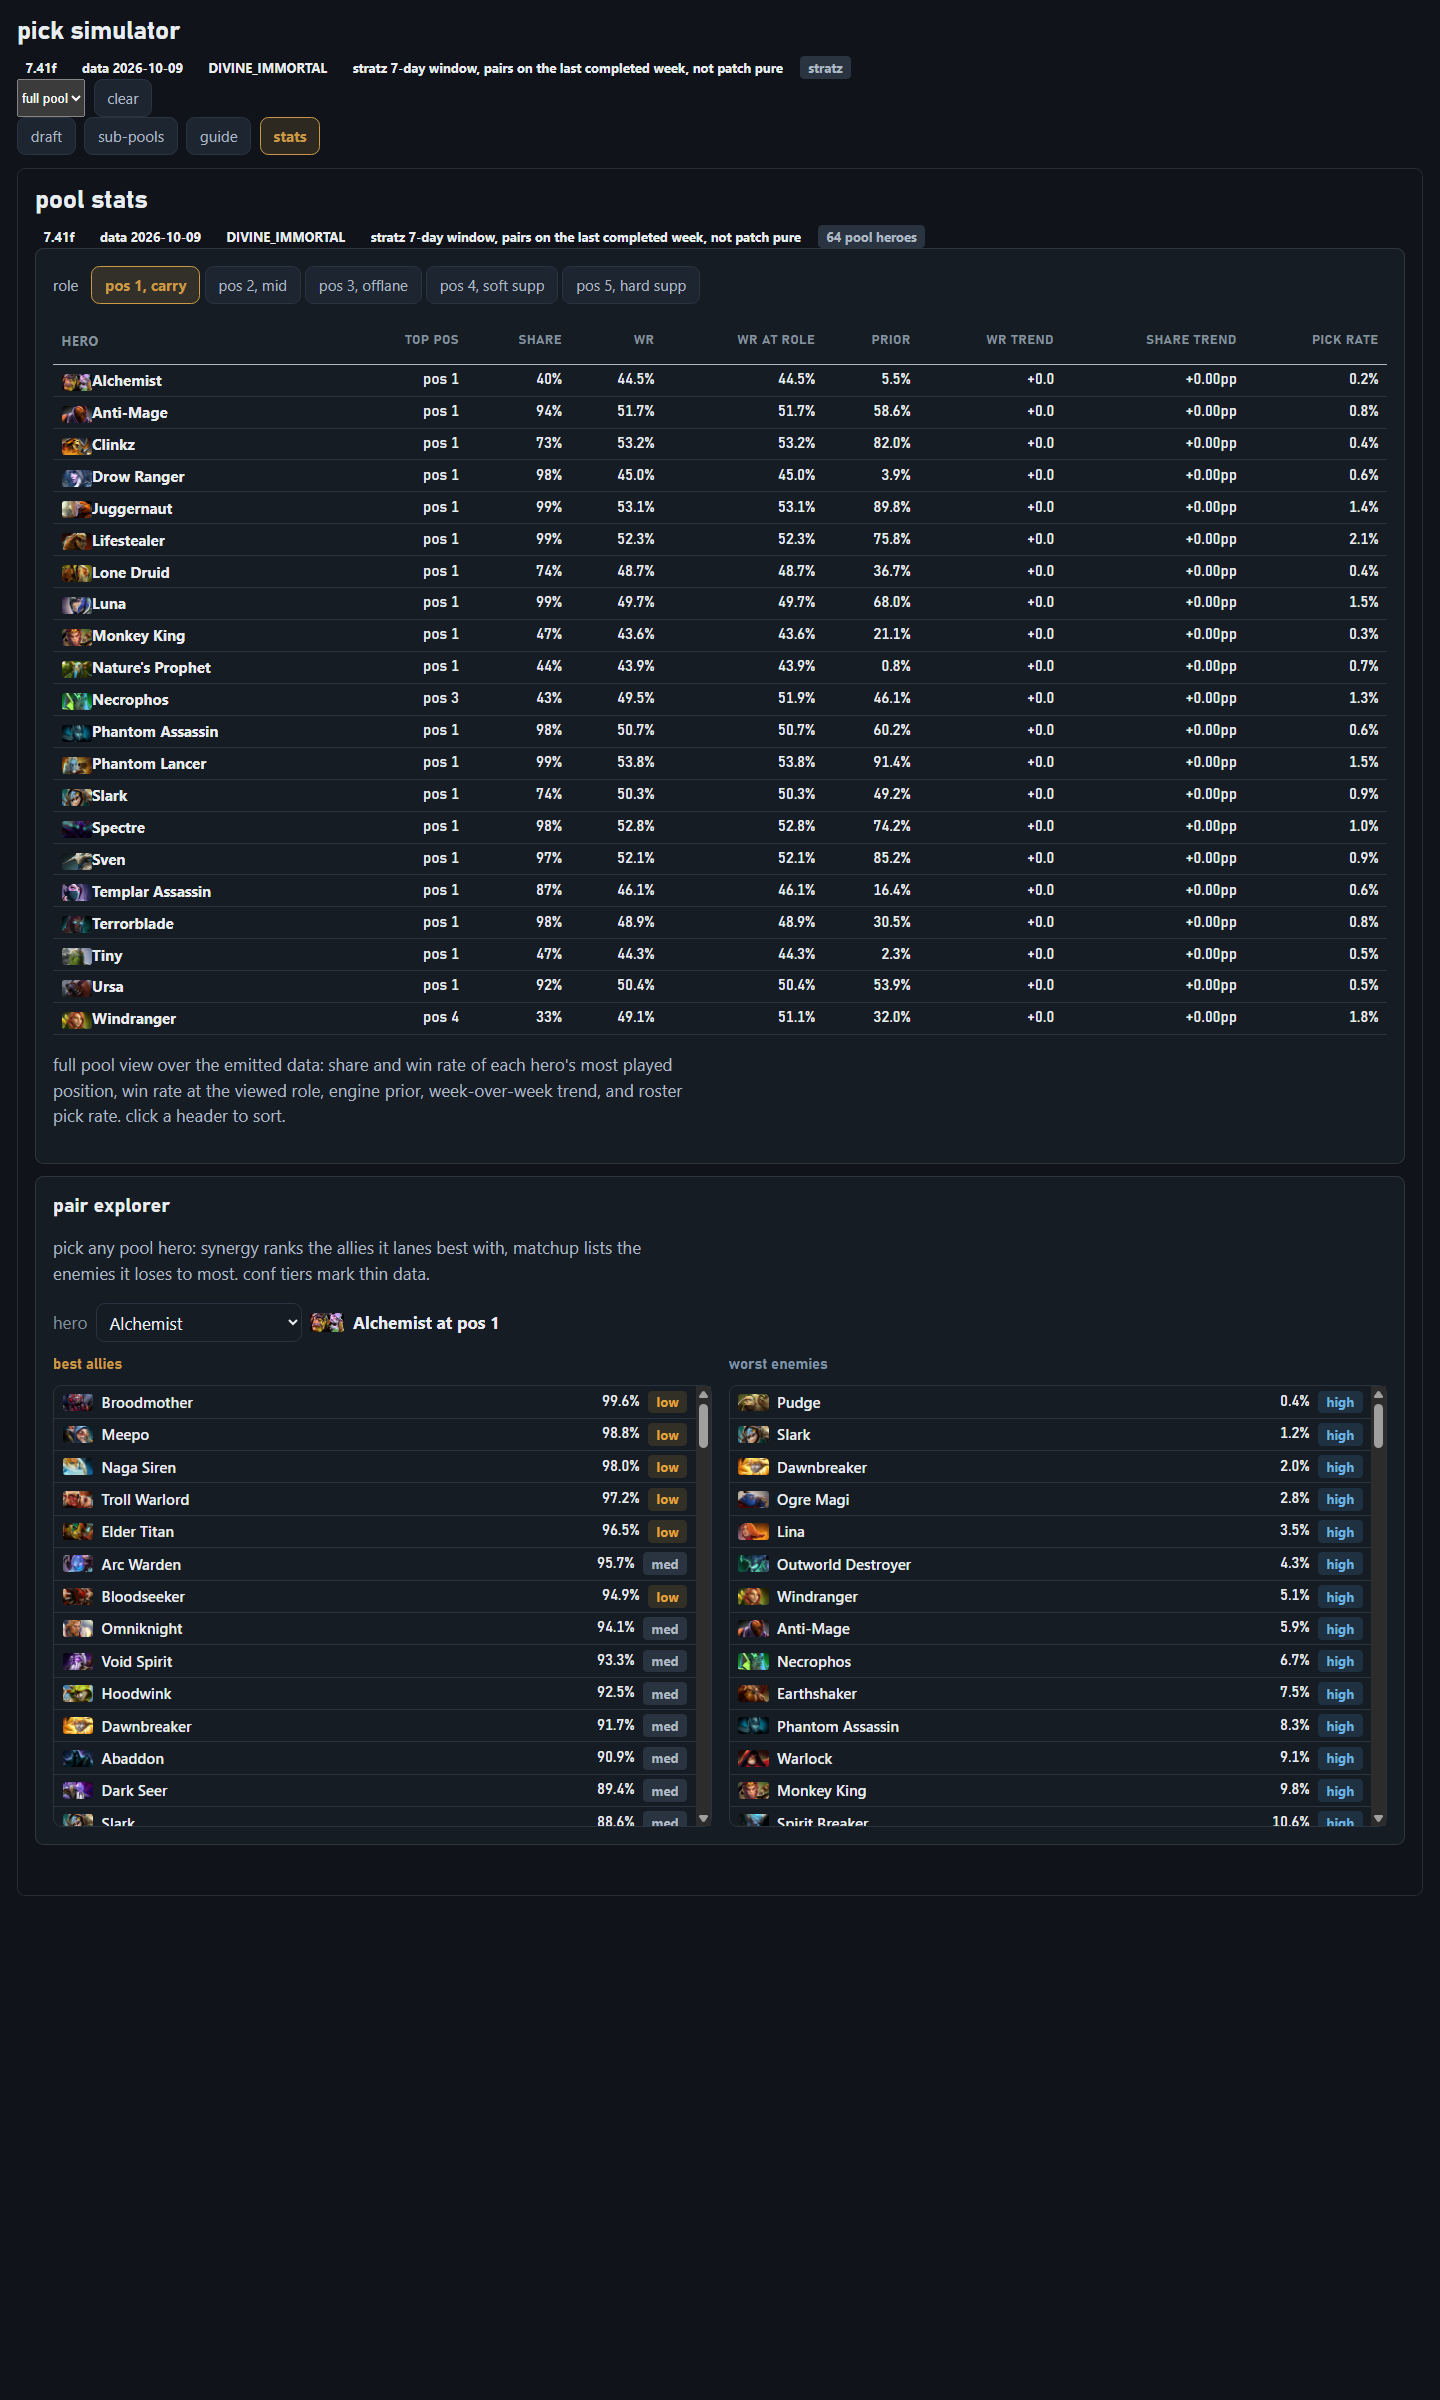
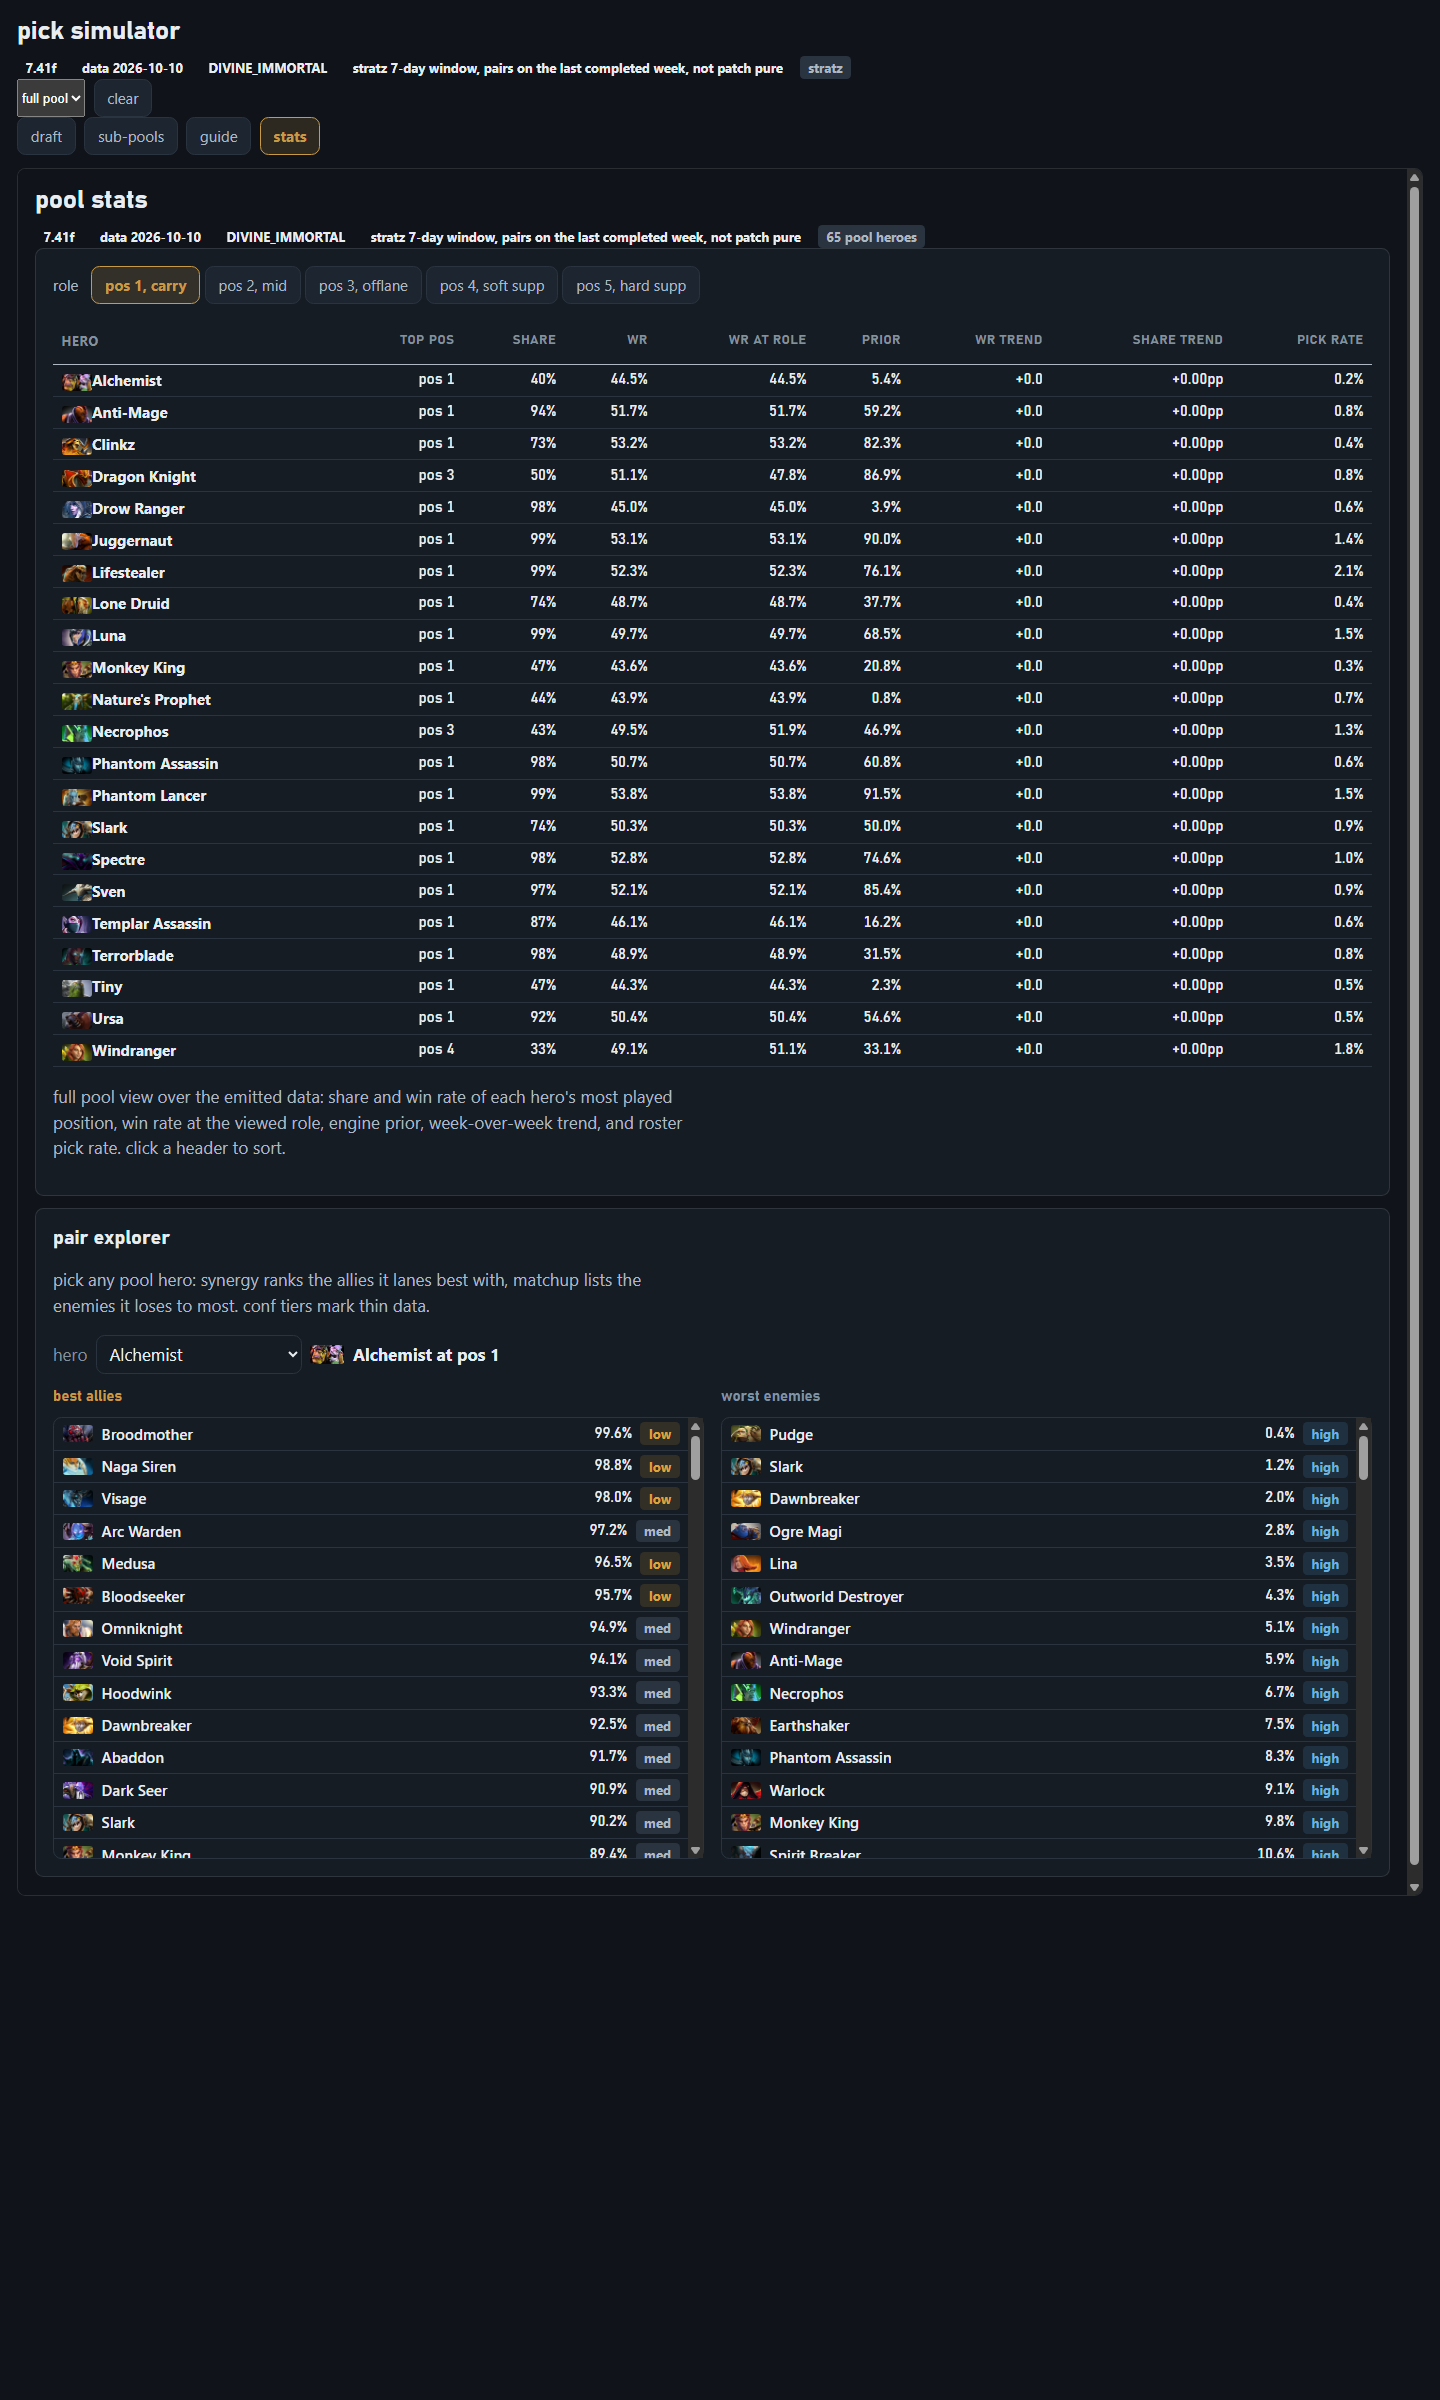
docs(readme): retake the shots for the widened pool and reseeded subset

diff --git a/readme.md b/readme.md
@@ -19,7 +19,7 @@ place allies, enemies, and bans through the roster search or the pool panels, ai
 
 the sub-pools tab carves sub-pools out of the master pool through the loopback `/api/subsets`, and the subset bar in the header picks the active one, so the board panels and ranking filter live to the kept pairs (`make subsets` opens the tab). `main` is the first sub-pool, `make seed-main` reseeds it idempotently into the committed store.
 
-![the sub-pools tab with main selected on the header subset bar and its 17 pairs toggled on among the per-role pool chips](docs/subpools.png)
+![the sub-pools tab with main selected on the header subset bar and its 20 pairs toggled on among the per-role pool chips](docs/subpools.png)
 
 ### guide
 
@@ -37,15 +37,15 @@ the stats tab and its standalone page `picker/stats.html` (`make stats`) read th
 
 the lineup below is the curated pool, membership is authored in `config.json`, a data refresh only re-sorts it: `order-pool` re-sorts every role for display from the latest mined per-position win rates. in the picker these lists are display only: every core hero competes for all three core seats and every support for both support seats, the score decides.
 
-- pos 1, carry: Phantom Lancer, Clinkz, Juggernaut, Spectre, Lifestealer, Sven, Necrophos (flex), Anti-Mage, Windranger, Phantom Assassin, Ursa, Slark (flex), Luna, Terrorblade, Lone Druid, Templar Assassin, Drow Ranger, Alchemist, Tiny, Nature's Prophet, Monkey King
+- pos 1, carry: Phantom Lancer, Clinkz, Juggernaut, Spectre, Lifestealer, Sven, Necrophos (flex), Anti-Mage, Windranger, Phantom Assassin, Ursa, Slark (flex), Luna, Terrorblade, Lone Druid, Dragon Knight (flex), Templar Assassin, Drow Ranger, Alchemist, Tiny, Nature's Prophet, Monkey King
 - pos 2, mid: Marci, Dragon Knight, Outworld Destroyer, Slark, Leshrac, Ember Spirit, Snapfire, Lina, Pangolier, Sniper, Necrophos (flex), Storm Spirit
-- pos 3, offlane: Enigma, Slark (flex), Brewmaster, Pudge, Dawnbreaker, Lycan, Dark Seer, Tidehunter, Viper, Centaur Warrunner, Necrophos, Death Prophet, Slardar, Doom, Largo, Timbersaw
+- pos 3, offlane: Enigma, Slark (flex), Brewmaster, Pudge, Dawnbreaker, Lycan, Dark Seer, Dragon Knight (flex), Tidehunter, Viper, Axe, Centaur Warrunner, Necrophos, Death Prophet, Slardar, Doom, Largo, Timbersaw, Pangolier (flex)
 - pos 4, soft support: Bounty Hunter, Nyx Assassin, Earthshaker, Shadow Shaman, Mirana, Undying, Rubick, Windranger (flex), Tusk, Ogre Magi, Hoodwink
 - pos 5, hard support: Lich, Winter Wyvern, Bane, Mirana (flex), Witch Doctor, Techies, Ancient Apparition, Clockwerk, Ogre Magi, Venomancer, Hoodwink (flex), Windranger (flex), Enchantress
 
-heroes marked flex hold a secondary seat beside the dedicated seat in another role's list. ogre magi joined as a new hero, dedicated at both support seats.
+heroes marked flex hold a secondary seat beside the dedicated seat in another role's list. axe joined as a new hero, dedicated at the offlane seat, dragon knight flexes carry and offlane beside the mid seat, and pangolier flexes offlane beside the mid seat.
 
-sub-pools carve the pool down for focused practice. `main` is the first one, 17 pairs: pos 1 nature's prophet, slark, lone druid, lifestealer, anti-mage. pos 2 dragon knight, slark, necrophos. pos 3 necrophos, dragon knight, axe. pos 4 and pos 5 mirana, hoodwink, windranger. `make seed-main` reseeds it idempotently into the committed `var/subsets.db`, byte-identical when the store already matches.
+sub-pools carve the pool down for focused practice. `main` is the first one, 20 pairs: pos 1 nature's prophet, slark, lone druid, lifestealer, dragon knight, anti-mage. pos 2 dragon knight, slark, pangolier, necrophos. pos 3 necrophos, dragon knight, axe, pangolier. pos 4 and pos 5 mirana, hoodwink, windranger. `make seed-main` reseeds it idempotently into the committed `var/subsets.db`, byte-identical when the store already matches.
 
 ## tools
 
